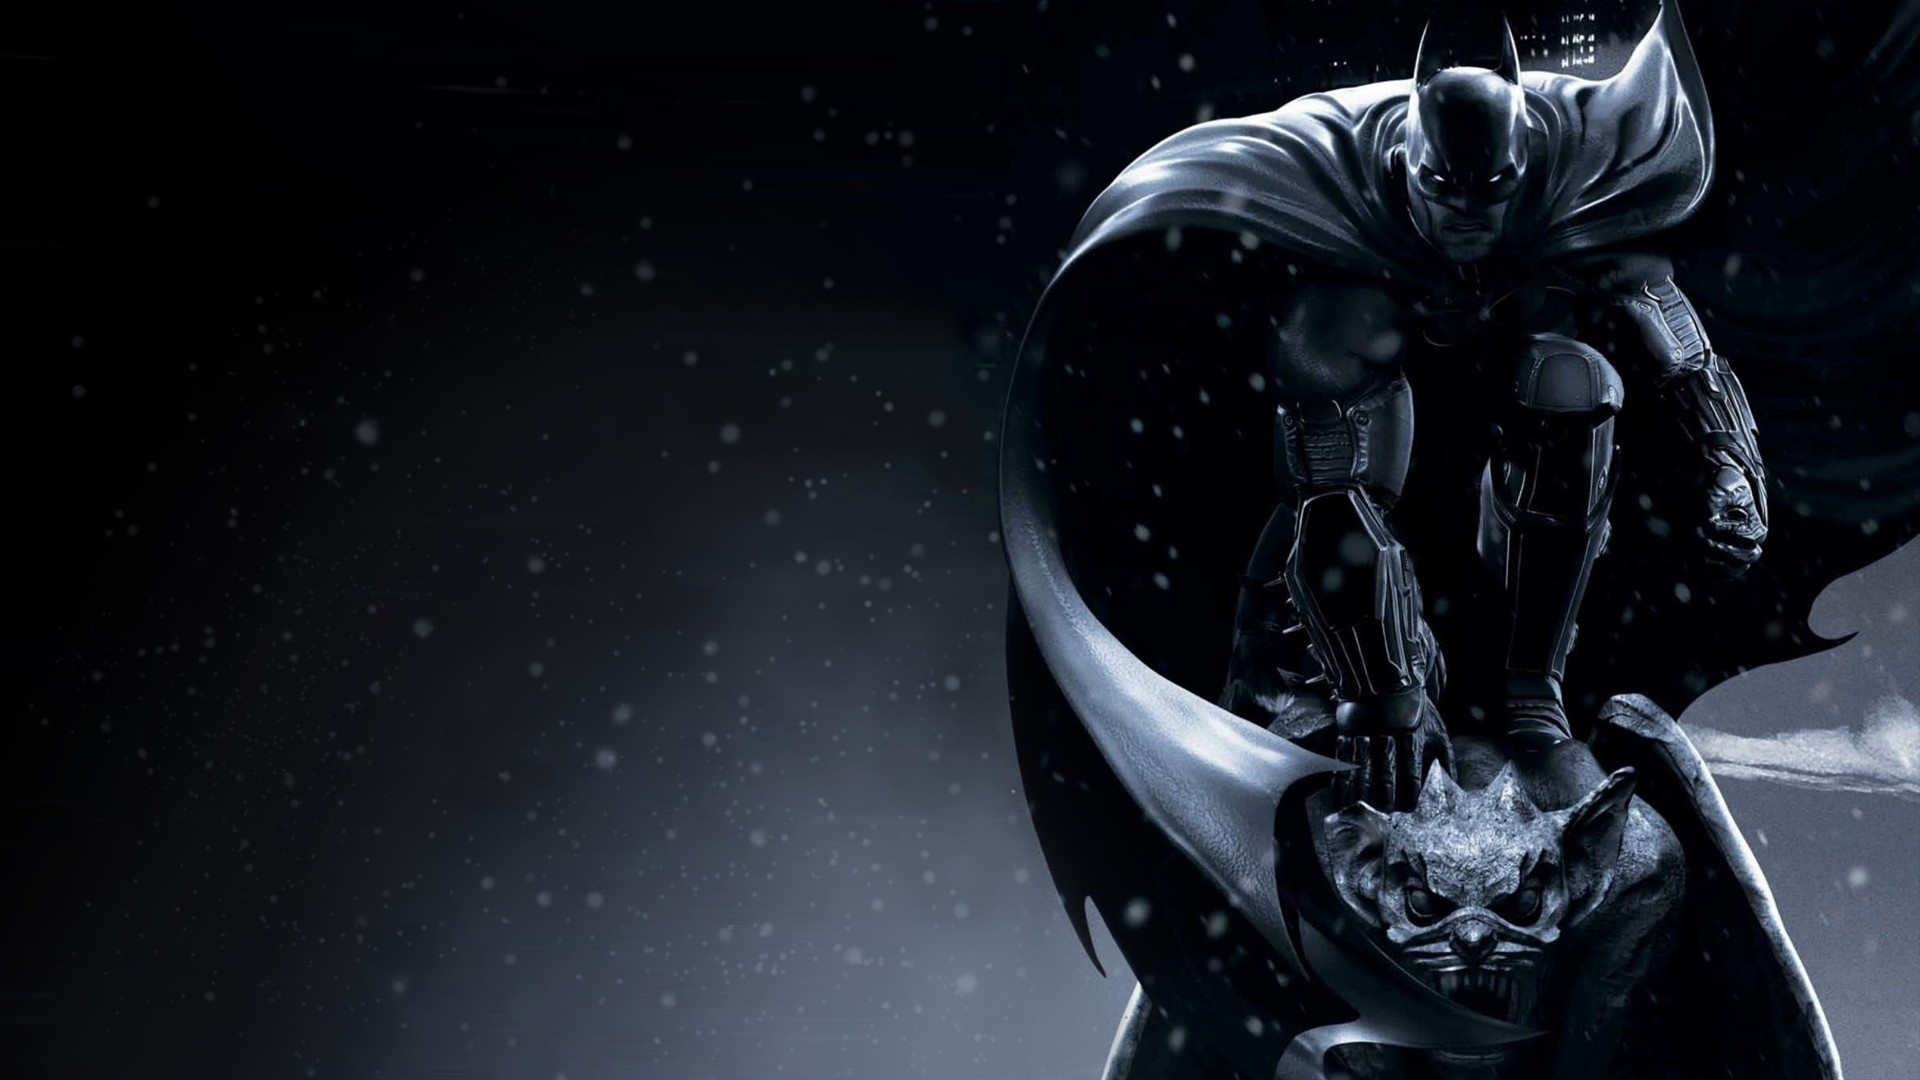
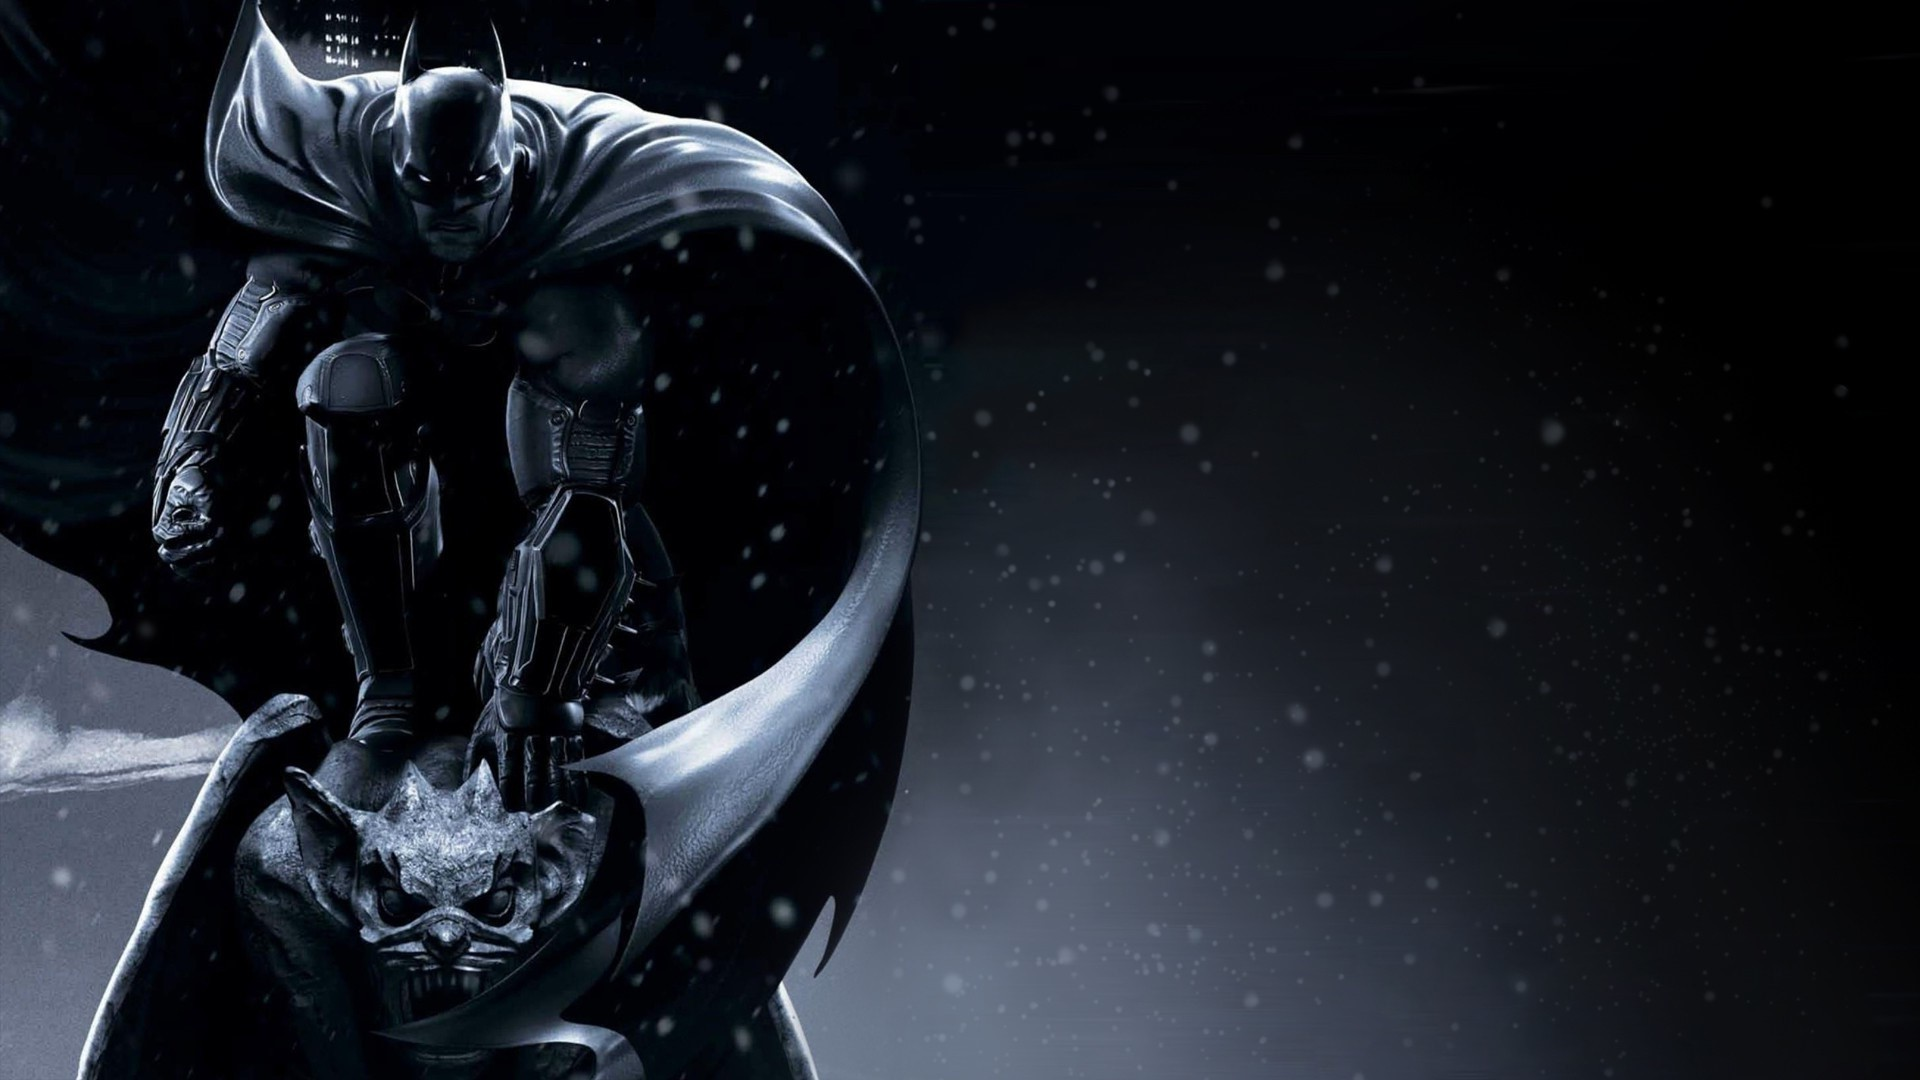
changed background

diff --git a/History.html b/History.html
@@ -16,7 +16,7 @@
     </head>
 
 
-    <body>
+    <body background="img/Joker.jpg">
 
       <nav class="navbar navbar-inverse navbar-fixed-top">
         <div class="container">

diff --git a/index.html b/index.html
@@ -18,7 +18,7 @@
 
 
 
-    <body>
+    <body background="img/Bat.jpg">
           
 <nav class="navbar navbar-inverse navbar-fixed-top" role="navigation">
 
